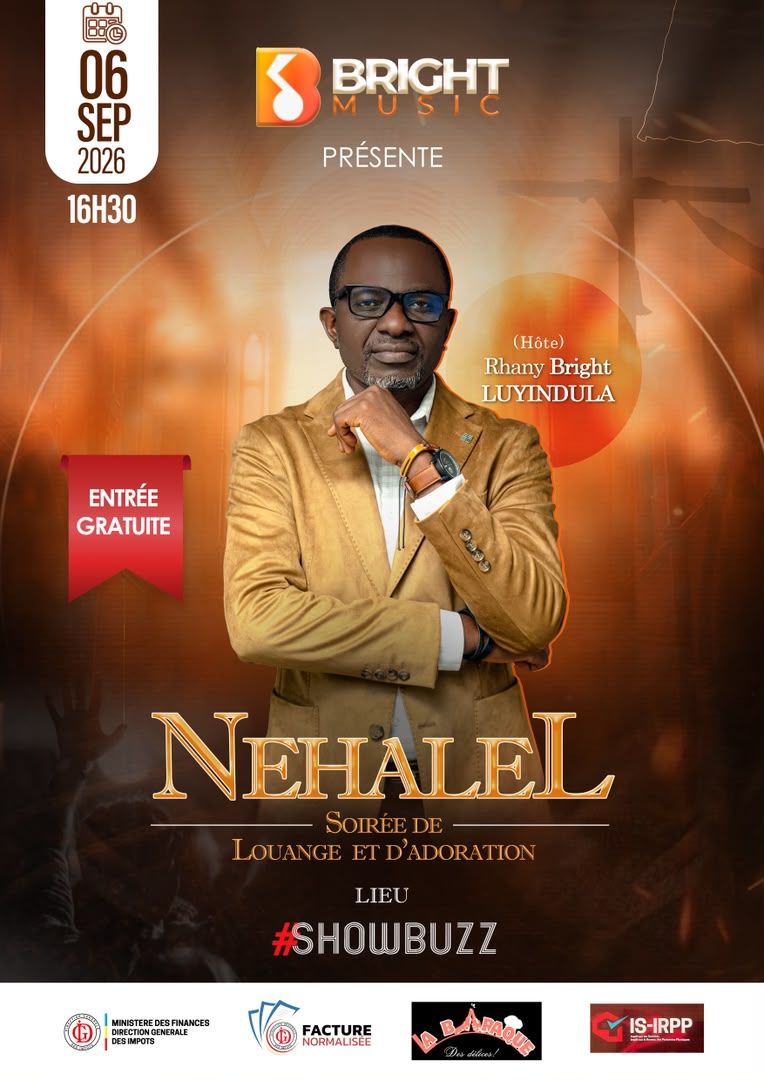
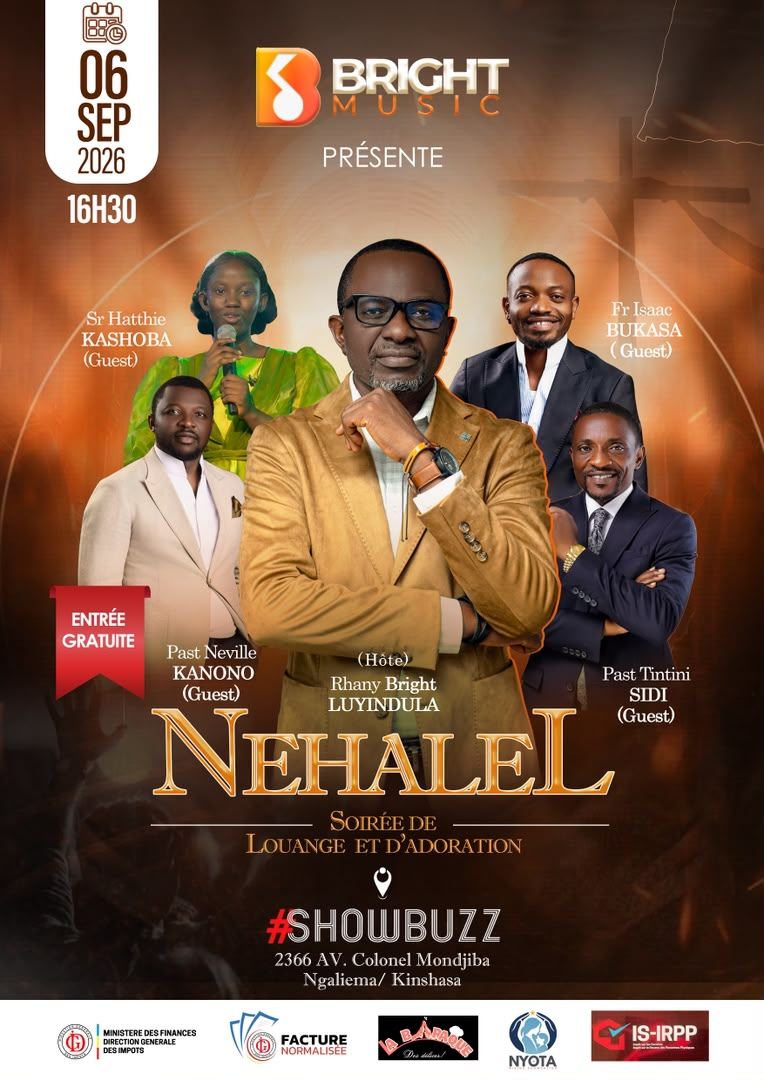
Mise à jour du texte et l'image de Shubuzz

diff --git a/src/app/events/events.module.css b/src/app/events/events.module.css
@@ -92,7 +92,7 @@
   overflow-wrap: anywhere;
   display: -webkit-box;
   -webkit-box-orient: vertical;
-  -webkit-line-clamp: 2;
+  -webkit-line-clamp: 3;
   overflow: hidden;
 }
 
@@ -179,6 +179,14 @@
   gap: 0.75rem;
 }
 
+.modalDescriptionCard {
+  padding: 1.15rem 1.2rem;
+  border-radius: 20px;
+  background: linear-gradient(135deg, rgba(212, 175, 55, 0.12), rgba(255, 255, 255, 0.04));
+  border: 1px solid rgba(212, 175, 55, 0.16);
+  box-shadow: inset 0 1px 0 rgba(255, 255, 255, 0.05);
+}
+
 .modalDate {
   color: var(--accent);
   font-size: 0.95rem;
@@ -188,10 +196,11 @@
 
 .modalDescription {
   color: var(--gray-light);
-  line-height: 1.8;
+  line-height: 1.9;
   font-size: clamp(0.95rem, 1.2vw, 1rem);
   white-space: pre-line;
   overflow-wrap: anywhere;
+  margin: 0;
 }
 
 @media (min-width: 768px) {
@@ -222,5 +231,12 @@
   .modalHeader {
     flex-direction: column;
     align-items: flex-start;
+  }
+  .modalDescriptionCard {
+    padding: 1rem;
+  }
+  .modalDescription {
+    font-size: 0.95rem;
+    line-height: 1.75;
   }
 }

diff --git a/src/app/events/page.js b/src/app/events/page.js
@@ -80,7 +80,9 @@ export default function EventsPage() {
                 />
               </div>
               <div className={styles.modalInfo}>
-                <p className={styles.modalDescription}>{activeEvent.description}</p>
+                <div className={styles.modalDescriptionCard}>
+                  <p className={styles.modalDescription}>{activeEvent.description}</p>
+                </div>
               </div>
             </div>
           </div>
